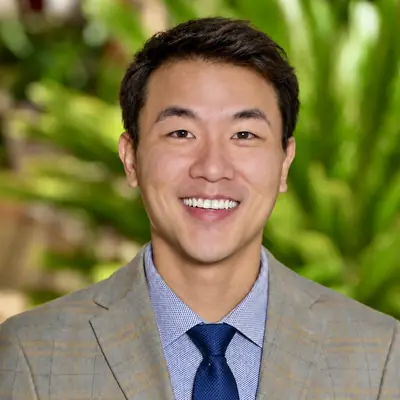
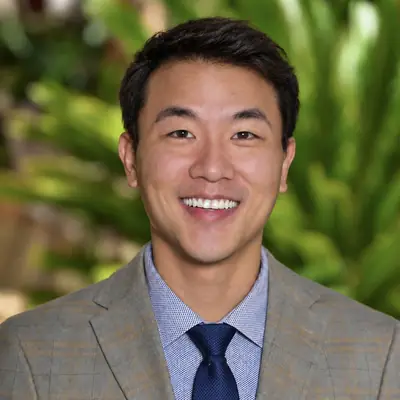
Add files via upload

diff --git a/index.html b/index.html
@@ -3,124 +3,131 @@
 <head>
 <meta charset="utf-8">
 <meta name="viewport" content="width=device-width, initial-scale=1">
-<meta name="description" content="Abhisit Jiranaphawiboon (AJ), PhD candidate in economics at Stanford GSB, on the 2026-27 job market.">
 <title>Abhisit Jiranaphawiboon</title>
 <link rel="preconnect" href="https://fonts.googleapis.com">
 <link rel="preconnect" href="https://fonts.gstatic.com" crossorigin>
-<link rel="stylesheet" href="https://fonts.googleapis.com/css2?family=Newsreader:ital,opsz,wght@0,6..72,400;0,6..72,500;0,6..72,600;1,6..72,400&family=Public+Sans:wght@400;500;600&display=swap">
+<link rel="stylesheet" href="https://fonts.googleapis.com/css2?family=Montserrat:wght@400;500&family=Noto+Sans:ital,wght@0,400;0,500;1,400&display=swap">
 <style>
-/* Layout: one narrow reading column; identity block (portrait + name + links) up top, then JMP as the featured item, then research and references. */
+/* Classic academic page: one left-aligned column, name, photo, short bio, links, then paper sections. Deliberately light-only, like a printed CV. */
 :root {
   --bg: #ffffff;
-  --fg: #1c2124;
-  --muted: #5b6468;
-  --rule: #e3e6e8;
-  --accent: #8c1c24;        /* deep cardinal, used sparingly */
-  --panel: #f6f7f8;
-  --display: "Newsreader", "Iowan Old Style", Georgia, serif;
-  --body: "Public Sans", system-ui, -apple-system, "Segoe UI", sans-serif;
+  --fg: #111111;
+  --muted: #555555;
+  --link: #014226;
+  --heading: "Montserrat", "Helvetica Neue", Arial, sans-serif;
+  --body: "Noto Sans", "Helvetica Neue", Arial, sans-serif;
+  --left: clamp(240px, 34vw, 360px); /* left column = photo width */
+  color-scheme: light;
 }
-@media (prefers-color-scheme: dark) {
-  :root:not([data-theme="light"]) {
-    --bg: #15181a; --fg: #e6e8e9; --muted: #9aa3a7; --rule: #2b3033;
-    --accent: #e2848a; --panel: #1d2124; color-scheme: dark;
-  }
-}
-:root[data-theme="dark"] {
-  --bg: #15181a; --fg: #e6e8e9; --muted: #9aa3a7; --rule: #2b3033;
-  --accent: #e2848a; --panel: #1d2124; color-scheme: dark;
-}
-
 * { box-sizing: border-box; }
+html, body { background: var(--bg); }
 body {
   margin: 0;
-  background: var(--bg);
   color: var(--fg);
   font-family: var(--body);
-  font-size: 16px;
+  font-size: 17px;
   line-height: 1.6;
   padding: 0 20px;
 }
-.wrap { max-width: 760px; margin: 0 auto; padding-block: 56px 72px; display: grid; gap: 56px; }
-
-a { color: var(--accent); text-decoration: none; border-bottom: 1px solid color-mix(in srgb, var(--accent) 35%, transparent); }
-a:hover { border-bottom-color: var(--accent); }
-a:focus-visible { outline: 2px solid var(--accent); outline-offset: 3px; border-radius: 2px; }
-
-/* Header */
-header { display: grid; grid-template-columns: 200px 1fr; gap: 36px; align-items: center; }
-.portrait {
-  width: 200px; aspect-ratio: 1 / 1; max-width: 100%;
-  background: var(--panel); border: 1px solid var(--rule); border-radius: 4px;
-  display: grid; place-items: center;
-  font-family: var(--display); font-size: 44px; color: var(--muted);
+.wrap {
+  max-width: 1080px; margin: 0 auto; padding-block: 40px 64px;
+  display: grid; grid-template-columns: var(--left) minmax(0, 1fr); gap: 32px clamp(48px, 7vw, 96px); align-items: start;
 }
-.portrait img { width: 100%; height: 100%; object-fit: cover; border-radius: 4px; }
+.research h2:first-child { margin-top: 0; }
+.item { margin: 0 0 22px; }
+.meta { font-size: 16px; margin: 0; }
+.status { color: var(--muted); font-style: italic; font-size: 16px; margin-left: 6px; }
+.abs summary { display: inline-block; cursor: pointer; color: var(--link); font-size: 15px; list-style: none; }
+.abs summary::-webkit-details-marker { display: none; }
+.abs summary:hover { text-decoration: underline; }
+.abs summary:focus-visible { outline: 2px solid var(--link); outline-offset: 2px; }
+.abs p { font-size: 16px; line-height: 1.65; max-width: 68ch; margin: 6px 0 0; }
+.research.more { margin-top: 44px; padding-top: 28px; border-top: 1px solid #e2e2e2; }
+/* Research heading matches the name's size (column width / 12.6). */
+.research h2 { font-size: calc(var(--left) / 12.6); line-height: 1.2; }
+.research h3 { font-family: var(--heading); font-weight: 500; font-size: 15px; letter-spacing: 0.06em; text-transform: uppercase; color: var(--muted); margin: 0 0 8px; }
+.paper { font-size: 18px; margin: 0 0 2px; }
+.note { font-size: 17px; color: var(--fg); margin: 0 0 14px; }
+.paper a { font-weight: 500; }
+.award { color: var(--muted); font-style: italic; }
+.abstract .label { color: var(--link); }
+.abstract { font-size: 16px; line-height: 1.65; max-width: 68ch; margin: 0 0 14px; }
+@media (max-width: 600px) {
+  .wrap { grid-template-columns: minmax(0, 1fr); }
+  .research h2:first-child { margin-top: 16px; }
+}
+/* Name and photo share one width: the name is sized to span the photo exactly. */
+.intro { width: 100%; container-type: inline-size; margin-bottom: 24px; }
 h1 {
-  font-family: var(--display); font-weight: 500; font-size: 40px; line-height: 1.1;
-  margin: 0 0 6px; letter-spacing: -0.01em; text-wrap: balance;
+  font-family: var(--heading); font-weight: 400; line-height: 1.2;
+  font-size: calc(100cqw / 12.6); white-space: nowrap;
+  margin: 0 0 20px;
 }
-.nick { color: var(--muted); font-family: var(--display); font-style: italic; font-size: 22px; font-weight: 400; }
-.role { margin: 10px 0 0; font-size: 17px; }
-.market {
-  display: inline-block; margin-top: 14px;
-  font-size: 12px; font-weight: 600; letter-spacing: 0.08em; text-transform: uppercase;
-  color: var(--accent); border: 1px solid currentColor; border-radius: 3px; padding: 3px 8px;
-}
-.links { display: flex; flex-wrap: wrap; gap: 8px 22px; margin-top: 18px; font-weight: 500; font-size: 15px; }
-.email { margin-top: 12px; color: var(--muted); font-size: 15px; }
-.email code { font-family: var(--body); color: var(--fg); user-select: all; }
-
-/* Sections */
-section { display: grid; gap: 18px; }
 h2 {
-  font-family: var(--body); font-size: 12px; font-weight: 600; letter-spacing: 0.12em;
-  text-transform: uppercase; color: var(--muted);
-  margin: 0; padding-bottom: 10px; border-bottom: 1px solid var(--rule);
+  font-family: var(--heading); font-weight: 400; font-size: 28px; line-height: 1.3;
+  margin: 36px 0 14px;
 }
-p { margin: 0; max-width: 65ch; }
-
-.fields { display: flex; flex-wrap: wrap; gap: 8px; }
-.fields span { background: var(--panel); border-radius: 3px; padding: 3px 10px; font-size: 14px; }
-
-/* Job market paper */
-.jmp { display: grid; gap: 12px; }
-.jmp h3 {
-  font-family: var(--display); font-weight: 500; font-size: 27px; line-height: 1.2;
-  margin: 0; text-wrap: balance;
+p { margin: 0 0 14px; }
+.bio { width: 100%; font-size: 17px; }
+a { color: var(--link); text-decoration: none; }
+a:hover { text-decoration: underline; }
+a:focus-visible { outline: 2px solid var(--link); outline-offset: 2px; }
+.photo { display: block; width: 100%; aspect-ratio: 1 / 1; object-fit: cover; }
+.refs { width: 100%; font-size: 17px; }
+.links { font-size: 17px; }
+.links a { white-space: nowrap; }
+.links .sep { color: var(--fg); margin: 0 8px; }
+@media (max-width: 520px) {
+  body { font-size: 16px; }
+  h2 { font-size: 23px; }
 }
-.jmp h3 a { color: var(--fg); border-bottom-color: var(--rule); }
-.jmp h3 a:hover { border-bottom-color: var(--fg); }
-.jmp .abstract { color: var(--fg); }
-.jmp .abstract strong { font-weight: 600; }
-.jmp-actions { display: flex; flex-wrap: wrap; gap: 10px 20px; font-size: 15px; font-weight: 500; }
-
-/* References */
-.refs { display: grid; grid-template-columns: repeat(3, minmax(0, 1fr)); gap: 24px; }
-.ref { display: grid; gap: 2px; font-size: 15px; min-width: 0; }
-.ref b { font-family: var(--display); font-weight: 500; font-size: 19px; }
-.ref span { color: var(--muted); }
-.ref .mail { color: var(--muted); font-size: 14px; overflow-wrap: anywhere; }
-
-footer { color: var(--muted); font-size: 13px; border-top: 1px solid var(--rule); padding-top: 18px; }
-
-@media (max-width: 620px) {
-  .wrap { padding-block: 32px 48px; gap: 44px; }
-  header { grid-template-columns: 1fr; gap: 20px; }
-  .portrait { width: 160px; }
-  h1 { font-size: 32px; }
-  .refs { grid-template-columns: 1fr; gap: 16px; }
+@media (max-width: 600px) {
+  :root { --left: min(360px, 100%); }
+  .intro, .bio, .refs { width: min(360px, 100%); }
+  .research h2 { font-size: 26px; }
 }
 </style>
 </head>
 <body>
 <div class="wrap">
-  <header>
-    <div class="portrait" aria-label="Portrait of Abhisit Jiranaphawiboon"><img src="photo.webp" alt="Abhisit Jiranaphawiboon"></div>
-    <div>
-      <h1>Abhisit Jiranaphawiboon <span class="nick">(AJ)</span></h1>
+  <div class="profile">
+  <div class="intro">
+    <h1>Abhisit Jiranaphawiboon</h1>
+    <img class="photo" src="photo.webp" alt="Photo of Abhisit Jiranaphawiboon">
+  </div>
+  <p class="bio">I am a PhD candidate in Economic Policy and Analysis at Stanford GSB and am on the 2026&ndash;27 job market. My research in urban economics studies the distributional impacts of local public goods, such as policing and public transit, on crime and residential welfare.</p>
+  <p class="refs">References: Rebecca Diamond (primary), Lanier Benkard, and Stephen Redding</p>
+  <p class="links"><a href="#" id="cv-link">CV</a><span class="sep">|</span><a href="#" id="scholar-link">Google Scholar</a><span class="sep">|</span><a href="mailto:ajirana@stanford.edu">Email me</a></p>
+  </div>
+
+  <div class="right">
+  <section class="research" aria-labelledby="research-h">
+    <h2 id="research-h">Job Market Paper</h2>
+    <p class="paper"><a href="#" id="jmp-link">Distributional Consequences of Police Allocation: Evidence from Chicago</a></p>
+    <p class="note"><span class="award">Best Student Paper (Honorable Mention) at the 2026 Urban Economics Association North American Meeting</span></p>
+    <p class="abstract"><span class="label">Abstract:</span> Municipal police deployment involves a fundamental location tradeoff: more patrol in one place means less elsewhere. I study the distributional consequences in Chicago using granular data, quasi-experimental variation, and a quantitative urban model. The observed allocation is consistent with a dual objective of crime minimization and land value maximization, generating disproportionate patrol in high-income neighborhoods. Shifting toward pure crime minimization reduces citywide crime but hurts every resident type. In neighborhoods gaining police, rising rents erode welfare gains for residents with the lowest willingness to pay for crime reduction; in neighborhoods losing police, higher crime compounds losses for those with the highest willingness to pay. A modest reallocation toward neighborhoods with high marginal valuation of crime reduction improves welfare for all types. Shifting the citywide police level creates limited welfare gains, pointing to reallocation as the main policy lever.</p>
+  </section>
+
+  <section class="research more" aria-labelledby="more-h">
+    <h2 id="more-h">Research</h2>
+    <div class="item">
+      <p class="paper"><a href="#" id="transit-link">Public Transit Expansion and Crime: Evidence from Chicago</a> <span class="status">New draft coming soon!</span></p>
+      <details class="abs">
+        <summary>[Abstract]</summary>
+        <p>Public transit expansions often face resistance from residents concerned about the potential spread of crime into their neighborhoods. To assess these concerns, I leverage a granular dataset from the Chicago Police Department that links crime incidents to offenders&rsquo; home addresses. Using variation in travel costs induced by a train shutdown, I document a short-run decline in downtown property crime committed by offenders affected by the shutdown. To study the distributional impacts, I develop a spatial equilibrium model of residential and workplace location choices that features interactions between offenders and workers. In a counterfactual train line expansion, I find that while offenders relocate near the extended line, the resulting increase in property crime is localized and propagates only minimally to other parts of the city.</p>
+      </details>
     </div>
-  </header>
+    <div class="item">
+      <p class="paper"><a href="#" id="immig-link">The Contribution of High-Skilled Immigrants to Innovation in the United States</a></p>
+      <p class="meta">With Shai Bernstein, Rebecca Diamond, Tim McQuade, and Beatriz Pousada</p>
+      <p class="meta"><em>Conditionally accepted, American Economic Review</em></p>
+      <details class="abs">
+        <summary>[Abstract]</summary>
+        <p>We characterize the contribution of immigrants to US innovation. Leveraging new data, we use age of SSN assignment to identify immigrant status. Immigrants represent 16 percent of inventors, but authored 23 percent of patents. Immigrant inventors contribute to knowledge diffusion across borders. They disproportionately rely on foreign technologies and inventor collaborations. Using variation from premature inventor deaths, we find immigrant inventors create stronger innovation productivity spillovers on their collaborators, as compared to US-born inventors. A simple model implies immigrants are responsible for 32 percent of aggregate innovation, over half of which is due to human capital externalities on US-born collaborators.</p>
+      </details>
+    </div>
+  </section>
+  </div>
 </div>
 </body>
 </html>
